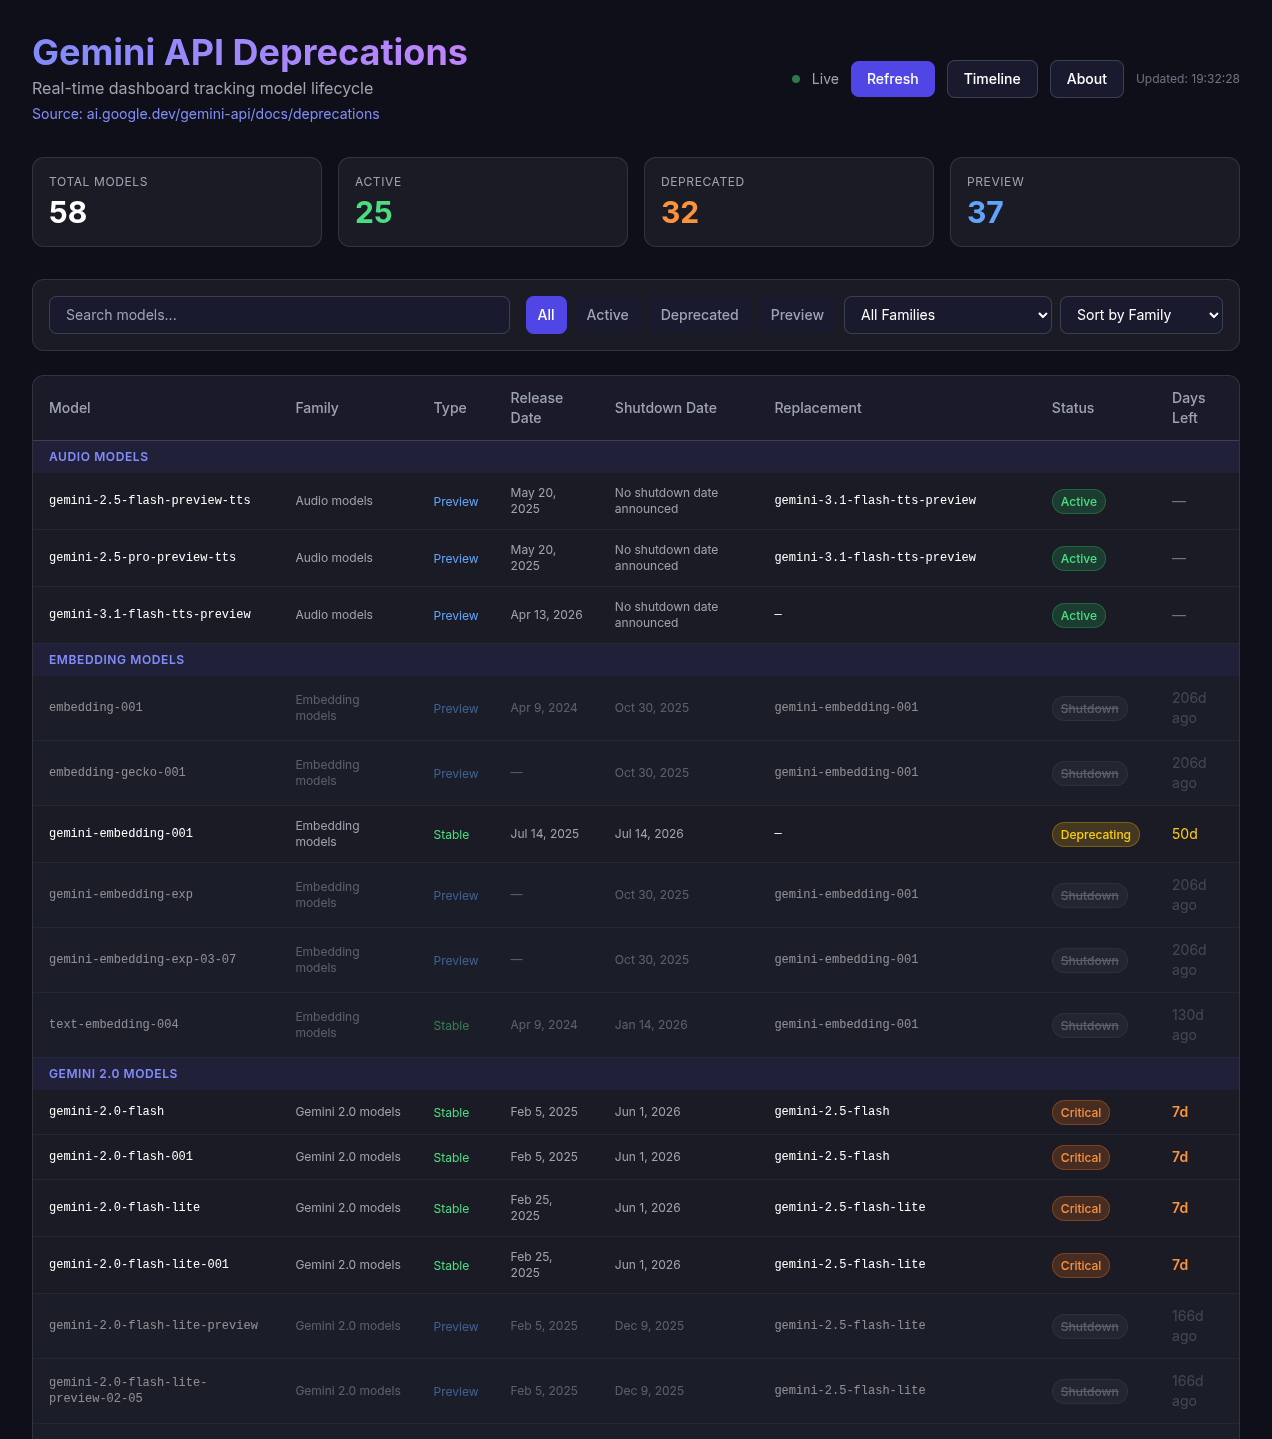
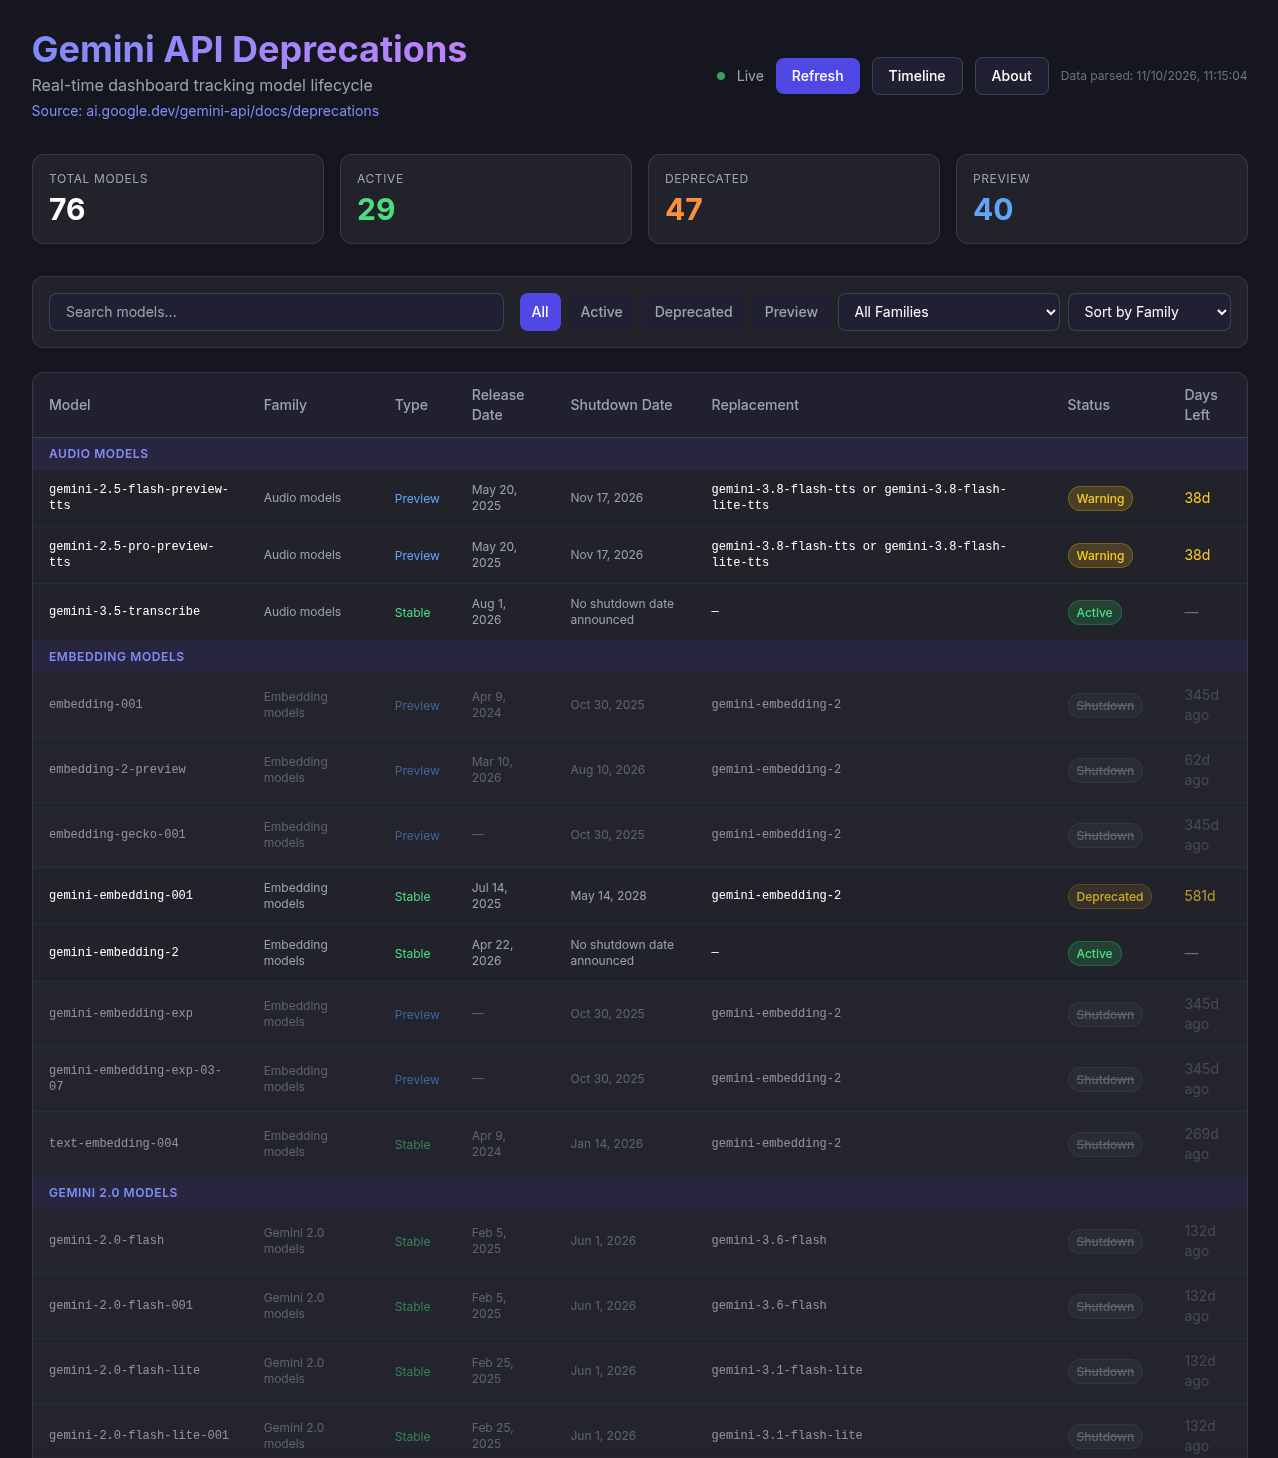
feat: separar eje de tipo y eje de estado en la clasificación de modelos
- getModelStatus: eliminar estado 'preview'; isPreview ya no enmascara la urgencia
- Nuevo estado 'deprecated' para cierres anunciados a >90 días (Active = sin fecha)
- Paraguas Deprecated (deprecated+warning+critical+shutdown): Total = Active + Deprecated
- Timeline: colores vía getModelStatus, unificados con el badge
- Terminología unificada (eliminada la etiqueta 'Deprecating')
- README: tabla de estados, chips, stats y timeline actualizados; capturas regeneradas

diff --git a/index.html b/index.html
@@ -223,21 +223,20 @@
             const days = daysUntil(model.shutdownDate);
             if (days === null) return 'active';
             if (days < 0) return 'shutdown';
-            if (model.isPreview) return 'preview';
             if (days <= 30) return 'critical';
             if (days <= 90) return 'warning';
-            return 'active';
+            return 'deprecated';
         }
 
         function statusBadge(status) {
             const map = {
                 active: 'bg-green-500/20 text-green-400 border-green-500/30',
-                preview: 'bg-blue-500/20 text-blue-400 border-blue-500/30',
+                deprecated: 'bg-yellow-500/10 text-yellow-400/80 border-yellow-500/20',
                 warning: 'bg-yellow-500/20 text-yellow-400 border-yellow-500/30',
                 critical: 'bg-orange-500/20 text-orange-400 border-orange-500/30',
                 shutdown: 'bg-gray-500/20 text-gray-400 border-gray-500/30 line-through'
             };
-            const labels = { active: 'Active', preview: 'Preview', warning: 'Deprecating', critical: 'Critical', shutdown: 'Shutdown' };
+            const labels = { active: 'Active', deprecated: 'Deprecated', warning: 'Warning', critical: 'Critical', shutdown: 'Shutdown' };
             return `<span class="px-2 py-1 rounded-full text-xs font-medium border ${map[status]}">${labels[status]}</span>`;
         }
 
@@ -246,7 +245,7 @@
             if (days < 0) return `<span class="text-gray-500">${Math.abs(days)}d ago</span>`;
             if (days <= 30) return `<span class="text-orange-400 font-semibold">${days}d</span>`;
             if (days <= 90) return `<span class="text-yellow-400">${days}d</span>`;
-            return `<span class="text-green-400">${days}d</span>`;
+            return `<span class="text-yellow-400/70">${days}d</span>`;
         }
 
         function parseHTML(html) {
@@ -428,7 +427,7 @@
             if (currentFilter === 'active') {
                 filtered = filtered.filter(m => { const s = getModelStatus(m); return s === 'active'; });
             } else if (currentFilter === 'deprecated') {
-                filtered = filtered.filter(m => { const s = getModelStatus(m); return ['warning', 'critical', 'shutdown'].includes(s); });
+                filtered = filtered.filter(m => { const s = getModelStatus(m); return ['deprecated', 'warning', 'critical', 'shutdown'].includes(s); });
             } else if (currentFilter === 'preview') {
                 filtered = filtered.filter(m => m.isPreview);
             }
@@ -461,7 +460,7 @@
         function renderStats() {
             const total = allModels.length;
             const active = allModels.filter(m => getModelStatus(m) === 'active').length;
-            const deprecated = allModels.filter(m => ['warning', 'critical', 'shutdown'].includes(getModelStatus(m))).length;
+            const deprecated = allModels.filter(m => ['deprecated', 'warning', 'critical', 'shutdown'].includes(getModelStatus(m))).length;
             const previews = allModels.filter(m => m.isPreview).length;
 
             $('stats').innerHTML = `
@@ -541,7 +540,8 @@
                 const days = daysUntil(m.shutdownDate);
                 const isPast = days < 0;
                 const barWidth = Math.max(5, Math.min(100, days > 365 ? 100 : (days / 365) * 100));
-                const barColor = isPast ? 'bg-gray-600' : days <= 30 ? 'bg-orange-500' : days <= 90 ? 'bg-yellow-500' : 'bg-green-500';
+                const barColors = { deprecated: 'bg-yellow-500/50', warning: 'bg-yellow-500', critical: 'bg-orange-500', shutdown: 'bg-gray-600' };
+                const barColor = barColors[getModelStatus(m)];
 
                 return `
                 <div class="flex items-center gap-4 py-3 ${isPast ? 'opacity-50' : ''}">

diff --git a/README.md b/README.md
@@ -1,6 +1,6 @@
 # Gemini API Deprecations Dashboard
 
-Dashboard interactivo de página única para monitorear en tiempo real el ciclo de vida y deprecaciones de modelos de [Gemini API](https://ai.google.dev/gemini-api/docs/deprecations).
+Dashboard interactivo de página única para monitorizar en tiempo real el ciclo de vida y deprecaciones de modelos de [Gemini API](https://ai.google.dev/gemini-api/docs/deprecations).
 
 ### [>> Pruébalo en vivo <<](https://pfelipm.github.io/gemini-models/)
 
@@ -115,15 +115,17 @@ Cada modelo es un objeto con esta estructura:
 
 ### Estados del modelo
 
-El estado se calcula dinámicamente según los días restantes hasta el shutdown:
+El estado se calcula dinámicamente según los días restantes hasta el shutdown, evaluados en este orden. `isPreview` **no** interviene: el tipo de modelo lo comunica la columna de tipo (Preview/Stable), un eje independiente que nunca enmascara la urgencia.
 
 | Estado | Condición | Color |
 |--------|-----------|-------|
-| **Active** | Sin fecha de shutdown | Verde |
-| **Preview** | `isPreview === true` | Azul |
-| **Warning** | ≤ 90 días para shutdown | Amarillo |
+| **Active** | Sin fecha de shutdown anunciada | Verde |
+| **Deprecated** | Fecha de shutdown a más de 90 días | Amarillo suave |
+| **Warning** | Fecha de shutdown entre 31 y 90 días | Amarillo |
 | **Critical** | ≤ 30 días para shutdown | Naranja |
 | **Shutdown** | Fecha de shutdown ya pasó | Gris (tachado) |
+
+**"Deprecated" como paraguas**: un modelo está deprecated en sentido amplio cuando su cierre está anunciado (Deprecated, Warning o Critical) o ya ocurrió (Shutdown). El chip y la tarjeta de estadística "Deprecated" agrupan estos cuatro estados, de modo que **Total = Active + Deprecated**.
 
 ---
 
@@ -134,7 +136,7 @@ El estado se calcula dinámicamente según los días restantes hasta el shutdown
 | Control | Comportamiento |
 |---------|---------------|
 | **Buscador** | Filtro de texto en tiempo real sobre `name`, `family` y `replacement` |
-| **Chips de estado** | All / Active / Deprecated / Preview (selección única) |
+| **Chips de filtro** | All / Active / Deprecated / Preview (selección única). Active y Deprecated filtran por estado; Preview filtra por tipo (`isPreview`) y por diseño solapa con los otros dos: un preview sin fecha de cierre aparece en Active y en Preview, y uno ya cerrado aparece en Deprecated y en Preview |
 | **Selector de familia** | Filtra por familia de modelos (ej. "Gemini 3 models", "Gemini 2.5 Pro models") |
 
 ### Ordenamiento
@@ -149,18 +151,18 @@ El estado se calcula dinámicamente según los días restantes hasta el shutdown
 ### Tarjetas de estadísticas
 
 Cuatro tarjetas resumen en la parte superior, calculadas a partir de todos los datos:
-- **Total Models**: Cantidad total de modelos
-- **Active**: Modelos activos (sin fecha de shutdown)
-- **Deprecated**: Modelos en warning, critical o shutdown
-- **Preview**: Modelos en versión preview
+- **Total Models**: Cantidad total de modelos (**Total = Active + Deprecated**)
+- **Active**: Modelos sin fecha de shutdown anunciada
+- **Deprecated**: Modelos con cierre anunciado o ya efectivo (estados deprecated, warning, critical o shutdown)
+- **Preview**: Métrica de tipo (`isPreview`), independiente del estado — solapa con Active y Deprecated
 
 ### Timeline de Shutdown
 
 Visualización gráfica de barras que muestra:
-- Modelos con fecha de shutdown ordenados descendente
+- Modelos con fecha de shutdown ordenados descendente (respeta los filtros activos)
 - Barras proporcionales a los días restantes
-- Colores según urgencia (verde → amarillo → naranja → gris)
-- Días restantes o "Xd ago" si ya pasó la fecha
+- Mismo código de color por estado que el badge: amarillo suave (> 90 días) → amarillo (≤ 90 días) → naranja (≤ 30 días) → gris (ya pasó)
+- Días restantes ("Xd left") o "Xd ago" si ya pasó la fecha
 
 ### Indicador de estado
 
@@ -196,6 +198,8 @@ El botón "About" abre un modal con la foto del autor, nombre y enlaces a sus pe
 ├── index.html                              # SPA completa (HTML + CSS + JS)
 ├── worker.js                               # Cloudflare Worker (proxy CORS)
 ├── wrangler.toml                           # Config de Cloudflare Workers
+├── favicon.svg                             # Favicon
+├── LICENSE                                 # Licencia
 ├── README.md                               # Este archivo
 ├── .github/
 │   ├── scripts/
